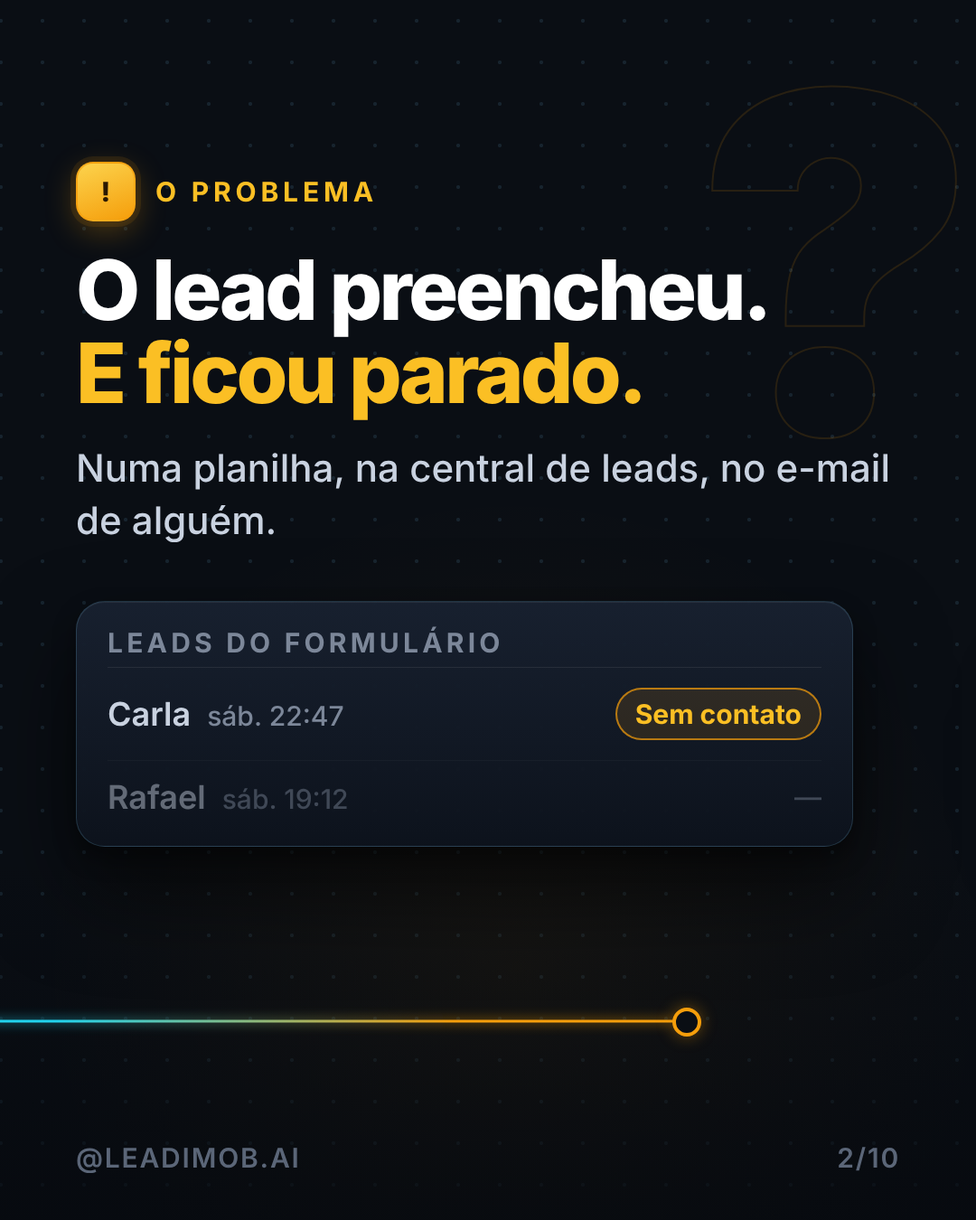
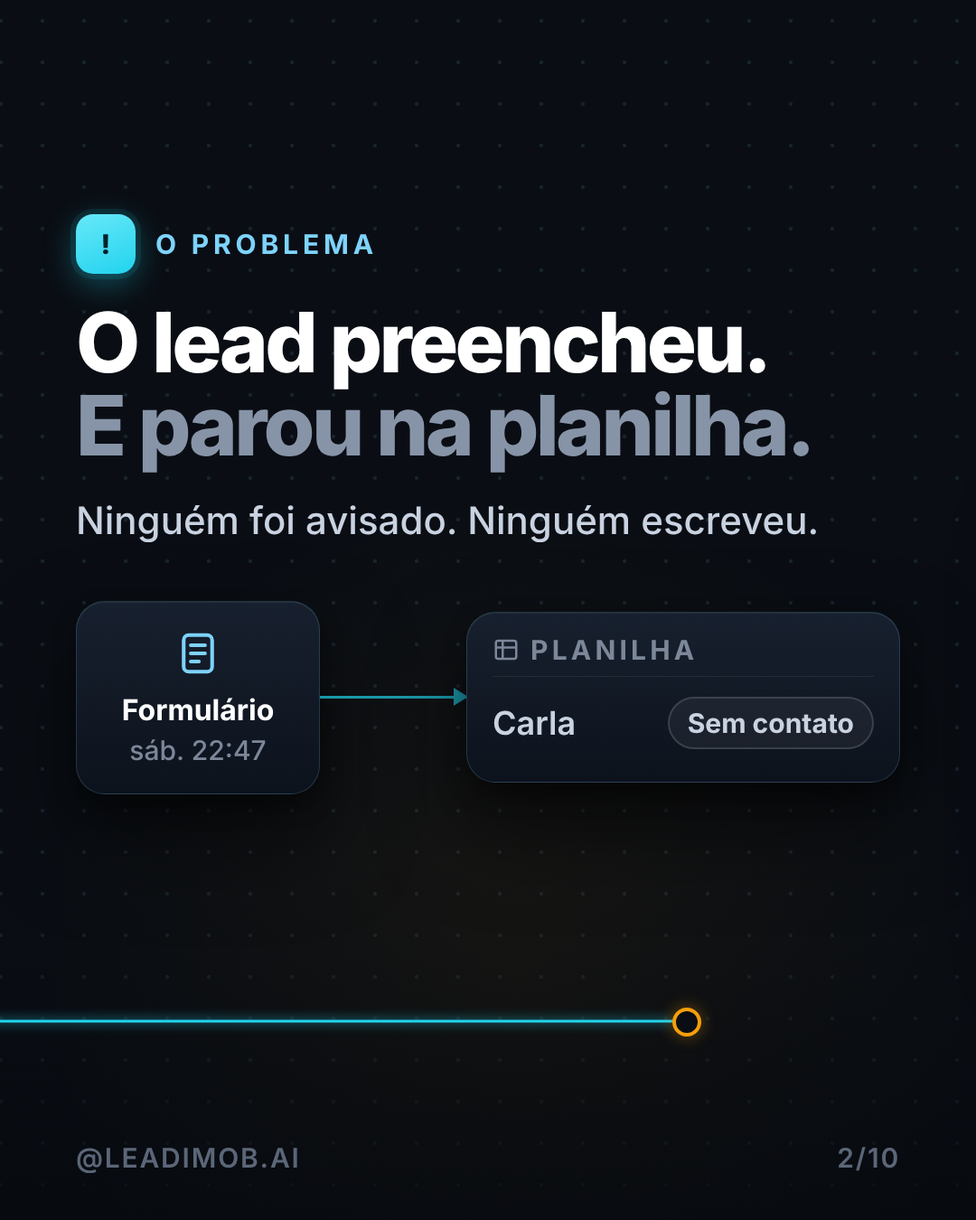
10/10: carrossel revisado após a crítica (rodada 2, sem aprovação)
Claude-Session: https://claude.ai/code/session_016a8cwUDTswJAyhXi9pdNNX

Changed region(s): [[0.0611, 0.1244, 0.9167, 0.6844], [0.3056, 0.8089, 0.7028, 0.84]]

diff --git a/instagram/2026-10-10/src/c1-index.html b/instagram/2026-10-10/src/c1-index.html
@@ -108,15 +108,15 @@ body{background:#0A0E14;width:10800px;height:1350px;overflow:hidden;font-family:
 .kv span{font:700 38px/1 IN;color:#fff}
 /* checklist resumo */
 .cl{width:900px;padding:22px 38px}
-.ci{display:flex;align-items:center;gap:24px;padding:20px 0;border-top:1px solid rgba(255,255,255,.08);font:600 36px/1.15 IN;color:#E2E8F0}
+.ci{display:flex;align-items:center;gap:24px;padding:17px 0;border-top:1px solid rgba(255,255,255,.08);font:600 36px/1.15 IN;color:#E2E8F0}
 .ci:first-child{border-top:0}
 .ci .n{width:50px;height:50px;border-radius:14px;border:3px solid rgba(125,211,252,.55);display:flex;align-items:center;justify-content:center;font:800 30px/1 IN;color:#7DD3FC;flex:none}
 /* chat final */
 .chat{width:900px;padding:0 0 30px}
-.chat .top{display:flex;align-items:center;gap:20px;padding:22px 30px;background:#1F2C34;margin-bottom:26px}
+.chat .top{display:flex;align-items:center;gap:20px;padding:16px 30px;background:#1F2C34;margin-bottom:26px}
 .chat .top b{display:block;font:700 36px/1.1 IN;color:#E9EDEF}
 .chat .top em{display:block;font:500 30px/1.2 IN;color:#8696A0;font-style:normal}
-.chat .bub{font-size:40px;margin:0 30px 18px}
+.chat .bub{font-size:38px;margin:0 30px 16px}
 </style></head><body><div id="strip">
 <div class="bg"></div>
 <div class="glow" style="left:-380px;top:-460px;width:1500px;height:1500px;background:radial-gradient(circle,rgba(37,99,235,.30),transparent 62%)"></div>
@@ -131,34 +131,52 @@ body{background:#0A0E14;width:10800px;height:1350px;overflow:hidden;font-family:
 <!-- 1 capa -->
 <div class="sl" style="left:0;justify-content:flex-start;padding-top:118px">
  <div style="display:flex;justify-content:space-between;align-items:center">
-  <div class="ttl" style="margin:0"><div class="num"><svg width="32" height="32" viewBox="0 0 24 24" fill="none" stroke="#06202A" stroke-width="2.6" stroke-linecap="round" stroke-linejoin="round"><path d="M4 6h16M7 12h10M10 18h4"/></svg></div><div class="kick">Método · 5 checagens</div></div>
+  <div class="ttl" style="margin:0"><div class="num"><svg width="32" height="32" viewBox="0 0 24 24" fill="none" stroke="#06202A" stroke-width="2.6" stroke-linecap="round" stroke-linejoin="round"><path d="M4 6h16M7 12h10M10 18h4"/></svg></div><div class="kick">Método</div></div>
   <span class="chip cy"><svg width="24" height="28" viewBox="0 0 20 24"><path d="M3 2h14v20l-7-5.500L3 22z" fill="#A5F3FC"/></svg>Salve este post</span>
  </div>
- <div class="h1" style="margin-top:64px;font-size:132px;line-height:.95">Do formulário<br>ao <span class="hl">WhatsApp.</span></div>
- <div class="p" style="margin-top:36px;font-size:46px;font-weight:600;color:#E2E8F0"><span class="hl">5 checagens</span> da sua captação.</div>
- <div class="card form" id="a-form" style="margin-top:56px">
+ <div class="h1" style="margin-top:64px;font-size:100px;line-height:1.0">O lead preencheu.<br>Alguém<br><span class="hl">respondeu?</span></div>
+ <div class="p" style="margin-top:34px;font-size:42px;font-weight:500;color:#E2E8F0">5 checagens para ver onde a sua captação de leads trava.</div>
+ <div class="card form" id="a-form" style="margin-top:52px">
   <div class="lab">Formulário do anúncio</div>
   <div class="fld"><b>Nome</b><span>Carla</span></div>
-  <div class="fld"><b>WhatsApp</b><span>(11) 9••••-••••</span></div>
   <div class="btn">Enviar <svg width="30" height="30" viewBox="0 0 24 24"><path d="M3 12 L21 3 L14 21 L11 13 Z" fill="#fff"/></svg></div>
  </div>
  <div class="foot"><span>@LEADIMOB.AI</span><span style="color:#7DD3FC">ARRASTE →</span></div></div>
 
-<!-- 2 problema -->
-<div class="sl" style="left:1080px"><div class="ghost" style="-webkit-text-stroke-color:rgba(245,158,11,.13)">?</div>
- <div class="ttl"><div class="num amb">!</div><div class="kick" style="color:#FBBF24">O problema</div></div>
- <div class="h2">O lead preencheu.<br><span class="am">E ficou parado.</span></div>
- <div class="p">Numa planilha, na central de leads, no e-mail de alguém.</div>
- <div class="card tbl art">
-  <div class="lab" style="margin-bottom:12px">Leads do formulário</div>
-  <div class="row"><span>Carla<small>sáb. 22:47</small></span><span class="chip amb" style="font-size:30px;padding:12px 20px">Sem contato</span></div>
-  <div class="row" style="opacity:.45"><span>Rafael<small>sáb. 19:12</small></span><span style="font:500 30px IN;color:#7C8799">—</span></div>
+<!-- 2 problema: caminho travado (formulário → planilha) -->
+<div class="sl" style="left:1080px">
+ <div class="ttl"><div class="num">!</div><div class="kick">O problema</div></div>
+ <div class="h2">O lead preencheu.<br><span style="color:#8794A8">E parou na planilha.</span></div>
+ <div class="p">Ninguém foi avisado. Ninguém escreveu.</div>
+ <div class="art" style="display:flex;align-items:center;width:912px">
+  <div class="card" style="width:270px;padding:30px 26px;text-align:center">
+   <svg width="54" height="54" viewBox="0 0 24 24" fill="none" stroke="#7DD3FC" stroke-width="1.8" stroke-linejoin="round" stroke-linecap="round"><rect x="5" y="3" width="14" height="18" rx="2.5"/><path d="M8.500 8h7M8.500 12h7M8.500 16h4"/></svg>
+   <div style="font:700 32px/1.1 IN;margin-top:14px">Formulário</div><div style="font:500 30px/1.2 IN;color:#7C8799;margin-top:8px">sáb. 22:47</div></div>
+  <div style="flex:1;height:3px;background:#22D3EE;opacity:.7;position:relative"><span style="position:absolute;right:-2px;top:-9px;border-left:16px solid #22D3EE;border-top:10px solid transparent;border-bottom:10px solid transparent"></span></div>
+  <div class="card" style="width:480px;padding:26px 28px 14px">
+   <div class="lab" style="margin-bottom:14px"><svg width="30" height="30" viewBox="0 0 24 24" fill="none" stroke="#7C8799" stroke-width="2"><rect x="3" y="4" width="18" height="16" rx="2"/><path d="M3 10h18M9 4v16"/></svg>Planilha</div>
+   <div class="row"><span>Carla</span><span class="chip nt" style="font-size:30px;padding:12px 20px">Sem contato</span></div>
+  </div>
  </div>
  <div class="foot"><span>@LEADIMOB.AI</span><span>2/10</span></div></div>
 <div class="stop" style="left:1840px"></div>
 
-<!-- 3 checagem 1 -->
-<div class="sl" style="left:2160px"><div class="ghost">01</div>
+<!-- 3 o teste -->
+<div class="sl" style="left:2160px">
+ <div class="ttl"><div class="num"><svg width="32" height="32" viewBox="0 0 24 24" fill="none" stroke="#06202A" stroke-width="2.6" stroke-linecap="round" stroke-linejoin="round"><path d="M4 6h16M7 12h10M10 18h4"/></svg></div><div class="kick">O teste</div></div>
+ <div class="h2">Preencha o seu próprio <span class="hl">formulário</span>.</div>
+ <div class="p">Depois, siga as 5 checagens.</div>
+ <div class="card cl art">
+  <div class="ci"><span class="n">1</span>Chega a alguém na hora?</div>
+  <div class="ci"><span class="n">2</span>WhatsApp citando o anúncio?</div>
+  <div class="ci"><span class="n">3</span>Resposta fora do horário?</div>
+  <div class="ci"><span class="n">4</span>Perguntas antes dos imóveis?</div>
+  <div class="ci"><span class="n">5</span>Dono e próximo passo?</div>
+ </div>
+ <div class="foot"><span>@LEADIMOB.AI</span><span>3/10</span></div></div>
+
+<!-- 4 checagem 1 -->
+<div class="sl" style="left:3240px;padding-top:216px"><div class="ghost">01</div>
  <div class="ttl"><div class="num">01</div><div class="kick">Checagem 1 · entrada</div></div>
  <div class="h2">O lead chega a <span class="hl">alguém</span> na hora?</div>
  <div class="p">Formulário enviado vira aviso, não arquivo para baixar depois.</div>
@@ -167,37 +185,36 @@ body{background:#0A0E14;width:10800px;height:1350px;overflow:hidden;font-family:
   <div style="flex:1"><div style="display:flex;justify-content:space-between;font:700 30px/1 IN;letter-spacing:.12em;color:#7DD3FC;text-transform:uppercase"><span>Novo lead</span><span style="color:#7C8799;letter-spacing:.04em;text-transform:none">agora</span></div>
   <div style="font:600 38px/1.2 IN;color:#fff;margin-top:14px">Carla · apto de 2 quartos</div></div>
  </div>
- <div class="foot"><span>@LEADIMOB.AI</span><span>3/10</span></div></div>
-<div class="gate" style="left:2700px"><i><svg width="26" height="26" viewBox="0 0 24 24"><path d="M5 12.500l4.500 4.500L19 7" stroke="#7DD3FC" stroke-width="3.2" fill="none" stroke-linecap="round" stroke-linejoin="round"/></svg></i><span>1</span></div>
-
-<!-- 4 checagem 2 -->
-<div class="sl" style="left:3240px"><div class="ghost">02</div>
- <div class="ttl"><div class="num">02</div><div class="kick">Checagem 2 · primeira mensagem</div></div>
- <div class="h2">Vai pelo <span class="hl">WhatsApp</span> e cita o anúncio?</div>
- <div class="p">Ele precisa reconhecer o imóvel que viu.</div>
- <div class="wa one art">
-  <div class="bub bout"><div class="quote"><div class="thumb"></div><div><b>Anúncio · Instagram</b><em>Apto 2 quartos · Centro</em></div></div>
-  <div class="msgt">Oi, Carla! Sobre o apto de 2 quartos: é para morar ou para investir?</div><div class="bt">22:47 <svg class="tk" viewBox="0 0 34 22"><path d="M2 12l6 6L20 4M14 18l12-14" stroke="#53BDEB" stroke-width="3" fill="none" stroke-linecap="round" stroke-linejoin="round"/></svg></div></div>
- </div>
  <div class="foot"><span>@LEADIMOB.AI</span><span>4/10</span></div></div>
-<div class="gate" style="left:3780px"><i><svg width="26" height="26" viewBox="0 0 24 24"><path d="M5 12.500l4.500 4.500L19 7" stroke="#7DD3FC" stroke-width="3.2" fill="none" stroke-linecap="round" stroke-linejoin="round"/></svg></i><span>2</span></div>
+<div class="gate" style="left:3780px"><i><svg width="26" height="26" viewBox="0 0 24 24"><path d="M5 12.500l4.500 4.500L19 7" stroke="#7DD3FC" stroke-width="3.2" fill="none" stroke-linecap="round" stroke-linejoin="round"/></svg></i><span>1</span></div>
 
-<!-- 5 checagem 3 -->
-<div class="sl" style="left:4320px"><div class="ghost">03</div>
+<!-- 5 checagem 2 -->
+<div class="sl" style="left:4320px"><div class="ghost">02</div>
+ <div class="ttl"><div class="num">02</div><div class="kick">Checagem 2 · primeira mensagem</div></div>
+ <div class="h2" style="font-size:80px">A primeira mensagem vai pelo <span class="hl">WhatsApp</span> e cita o anúncio?</div>
+ <div class="p">O cliente precisa reconhecer o imóvel.</div>
+ <div class="wa one art">
+  <div class="bub bout" style="padding:22px 28px 18px"><div>Oi, Carla! Sobre o apto de 2 quartos do anúncio: é para morar ou para investir?</div><div class="bt"><svg class="tk" viewBox="0 0 34 22"><path d="M2 12l6 6L20 4M14 18l12-14" stroke="#53BDEB" stroke-width="3" fill="none" stroke-linecap="round" stroke-linejoin="round"/></svg></div></div>
+ </div>
+ <div class="foot"><span>@LEADIMOB.AI</span><span>5/10</span></div></div>
+<div class="gate" style="left:4860px"><i><svg width="26" height="26" viewBox="0 0 24 24"><path d="M5 12.500l4.500 4.500L19 7" stroke="#7DD3FC" stroke-width="3.2" fill="none" stroke-linecap="round" stroke-linejoin="round"/></svg></i><span>2</span></div>
+
+<!-- 6 checagem 3 -->
+<div class="sl" style="left:5400px"><div class="ghost">03</div>
  <div class="ttl"><div class="num">03</div><div class="kick">Checagem 3 · fora do horário</div></div>
  <div class="h2">Alguém responde às <span class="hl">22h</span>?</div>
  <div class="p">O formulário chega quando o cliente tem tempo: à noite, no fim de semana.</div>
  <div class="card day24 art">
   <div class="lab">Quando o formulário chegou</div>
-  <div class="bar"><div class="biz" style="left:37.5%;width:37.5%"><span style="position:absolute;left:0;right:0;bottom:44px;text-align:center;font:600 30px/1 IN;color:#7DD3FC;white-space:nowrap">horário comercial</span></div>
-   <div class="pin" style="left:94.9%;transform:translateX(-82%)"><span class="chip cy">Carla · 22:47</span><i style="margin-left:64%"></i><u style="margin-left:64%"></u></div></div>
+  <div class="bar" style="height:56px;border-radius:16px;margin-top:110px"><div class="biz" style="left:37.5%;width:37.5%;border-radius:16px;display:flex;align-items:center;justify-content:center;font:600 30px/1 IN;color:#E0F2FE;white-space:nowrap">horário comercial</div>
+   <div class="pin" style="left:94.9%;top:-90px;transform:translateX(-82%)"><span class="chip cy">Carla · 22:47</span><i style="margin-left:64%"></i><u style="margin-left:64%"></u></div></div>
   <div class="tks"><span style="left:2%">0h</span><span style="left:37.5%">9h</span><span style="left:75%">18h</span><span style="left:97%">24h</span></div>
  </div>
- <div class="foot"><span>@LEADIMOB.AI</span><span>5/10</span></div></div>
-<div class="gate" style="left:4860px"><i><svg width="26" height="26" viewBox="0 0 24 24"><path d="M5 12.500l4.500 4.500L19 7" stroke="#7DD3FC" stroke-width="3.2" fill="none" stroke-linecap="round" stroke-linejoin="round"/></svg></i><span>3</span></div>
+ <div class="foot"><span>@LEADIMOB.AI</span><span>6/10</span></div></div>
+<div class="gate" style="left:5940px"><i><svg width="26" height="26" viewBox="0 0 24 24"><path d="M5 12.500l4.500 4.500L19 7" stroke="#7DD3FC" stroke-width="3.2" fill="none" stroke-linecap="round" stroke-linejoin="round"/></svg></i><span>3</span></div>
 
-<!-- 6 checagem 4 -->
-<div class="sl" style="left:5400px"><div class="ghost">04</div>
+<!-- 7 checagem 4 -->
+<div class="sl" style="left:6480px"><div class="ghost">04</div>
  <div class="ttl"><div class="num">04</div><div class="kick">Checagem 4 · qualificação</div></div>
  <div class="h2">Pergunta <span class="hl">antes</span> de mandar imóvel?</div>
  <div class="p">As respostas dizem o que vale enviar.</div>
@@ -207,57 +224,43 @@ body{background:#0A0E14;width:10800px;height:1350px;overflow:hidden;font-family:
   <div class="q nt"><svg width="34" height="34" viewBox="0 0 24 24"><path d="M5 12.500l4.500 4.500L19 7" stroke="#22D3EE" stroke-width="3" fill="none" stroke-linecap="round" stroke-linejoin="round"/></svg>Até quanto?</div>
   <div class="q nt"><svg width="34" height="34" viewBox="0 0 24 24"><path d="M5 12.500l4.500 4.500L19 7" stroke="#22D3EE" stroke-width="3" fill="none" stroke-linecap="round" stroke-linejoin="round"/></svg>Para quando?</div>
  </div>
- <div class="foot"><span>@LEADIMOB.AI</span><span>6/10</span></div></div>
-<div class="gate" style="left:5940px"><i><svg width="26" height="26" viewBox="0 0 24 24"><path d="M5 12.500l4.500 4.500L19 7" stroke="#7DD3FC" stroke-width="3.2" fill="none" stroke-linecap="round" stroke-linejoin="round"/></svg></i><span>4</span></div>
+ <div class="foot"><span>@LEADIMOB.AI</span><span>7/10</span></div></div>
+<div class="gate" style="left:7020px"><i><svg width="26" height="26" viewBox="0 0 24 24"><path d="M5 12.500l4.500 4.500L19 7" stroke="#7DD3FC" stroke-width="3.2" fill="none" stroke-linecap="round" stroke-linejoin="round"/></svg></i><span>4</span></div>
 
-<!-- 7 checagem 5 -->
-<div class="sl" style="left:6480px"><div class="ghost">05</div>
- <div class="ttl"><div class="num">05</div><div class="kick">Checagem 5 · funil</div></div>
- <div class="h2">Cada lead tem <span style="color:#6EE7B7">dono e próximo passo</span>?</div>
+<!-- 8 checagem 5 -->
+<div class="sl" style="left:7560px"><div class="ghost">05</div>
+ <div class="ttl"><div class="num">05</div><div class="kick">Dono e próximo passo</div></div>
+ <div class="h2">Cada lead tem <span class="hl">dono e próximo passo</span>?</div>
  <div class="p">Sem isso, ele volta para a planilha.</div>
  <div class="card crm art">
   <div class="hd"><div class="av">C</div><div><div style="font:700 38px/1.1 IN">Carla</div><div style="font:500 30px/1.3 IN;color:#7C8799">Apto 2 quartos · Centro</div></div></div>
   <div class="kv"><b>Dono</b><span>Ana, corretora</span></div>
-  <div class="kv"><b>Próximo passo</b><span class="chip gr" style="font-size:32px">Visita sáb. 10h</span></div>
- </div>
- <div class="foot"><span>@LEADIMOB.AI</span><span>7/10</span></div></div>
-<div class="gate" style="left:7020px"><i><svg width="26" height="26" viewBox="0 0 24 24"><path d="M5 12.500l4.500 4.500L19 7" stroke="#7DD3FC" stroke-width="3.2" fill="none" stroke-linecap="round" stroke-linejoin="round"/></svg></i><span>5</span></div>
-
-<!-- 8 resumo -->
-<div class="sl" style="left:7560px">
- <div class="ttl"><div class="num"><svg width="32" height="32" viewBox="0 0 24 24" fill="none" stroke="#06202A" stroke-width="2.6" stroke-linecap="round" stroke-linejoin="round"><path d="M4 6h16M7 12h10M10 18h4"/></svg></div><div class="kick">Resumo · faça o teste</div></div>
- <div class="h2">Preencha o seu próprio <span class="hl">formulário</span>.</div>
- <div class="p">E veja em qual checagem a resposta trava.</div>
- <div class="card cl art">
-  <div class="ci"><span class="n">1</span>Chega a alguém na hora</div>
-  <div class="ci"><span class="n">2</span>WhatsApp citando o anúncio</div>
-  <div class="ci"><span class="n">3</span>Resposta fora do horário</div>
-  <div class="ci"><span class="n">4</span>Perguntas antes dos imóveis</div>
-  <div class="ci"><span class="n">5</span>Dono e próximo passo</div>
+  <div class="kv"><b>Próximo passo</b><span class="chip cy" style="font-size:32px">Visita seg. 10h</span></div>
  </div>
  <div class="foot"><span>@LEADIMOB.AI</span><span>8/10</span></div></div>
+<div class="gate" style="left:8100px"><i><svg width="26" height="26" viewBox="0 0 24 24"><path d="M5 12.500l4.500 4.500L19 7" stroke="#7DD3FC" stroke-width="3.2" fill="none" stroke-linecap="round" stroke-linejoin="round"/></svg></i><span>5</span></div>
 
 <!-- 9 produto -->
 <div class="sl" style="left:8640px">
  <div class="ttl"><div class="num"><svg width="34" height="34" viewBox="0 0 24 24"><path d="M12 3c5 0 9 3.600 9 8.200S17 19.500 12 19.500c-1 0-2-.15-2.900-.42L4.500 21l1.200-3.900C4 15.600 3 13.500 3 11.200 3 6.600 7 3 12 3z" fill="#06202A"/></svg></div><div class="kick">Onde a Leadimob entra</div></div>
  <div class="h2">Formulário enviado. <span style="color:#6EE7B7">Conversa iniciada.</span></div>
- <div class="p">A Leadimob começa no seu WhatsApp na hora, 24h, já citando o anúncio.</div>
- <div class="wa chat art" id="a-chat">
+ <div class="p">A Leadimob puxa a conversa no seu WhatsApp na hora, 24h, citando o anúncio.</div>
+ <div class="wa chat art" id="a-chat" style="margin-top:44px">
   <div class="top"><div class="av" style="width:64px;height:64px;font-size:30px">C</div><div><b>Carla</b><em>online</em></div></div>
-  <div class="bub bout">É para morar ou para investir?<div class="bt">22:47 <svg class="tk" viewBox="0 0 34 22"><path d="M2 12l6 6L20 4M14 18l12-14" stroke="#53BDEB" stroke-width="3" fill="none" stroke-linecap="round" stroke-linejoin="round"/></svg></div></div>
+  <div class="bub bout">Oi, Carla! Sobre o apto de 2 quartos: é para morar ou para investir?<div class="bt">22:47 <svg class="tk" viewBox="0 0 34 22"><path d="M2 12l6 6L20 4M14 18l12-14" stroke="#53BDEB" stroke-width="3" fill="none" stroke-linecap="round" stroke-linejoin="round"/></svg></div></div>
   <div class="bub bin">Para morar. Pode mandar as fotos?<div class="bt">22:48</div></div>
  </div>
  <div class="foot"><span>@LEADIMOB.AI</span><span>9/10</span></div></div>
 
 <!-- 10 CTA -->
-<div class="sl" style="left:9720px">
+<div class="sl" style="left:9720px;padding-bottom:170px">
  <div class="ttl"><div class="num"><svg width="32" height="32" viewBox="0 0 24 24"><path d="M5 12.500l4.500 4.500L19 7" stroke="#06202A" stroke-width="3" fill="none" stroke-linecap="round" stroke-linejoin="round"/></svg></div><div class="kick">Sua vez</div></div>
- <div class="h2">Onde a sua captação <span class="hl">trava</span>?</div>
+ <div class="h2">Onde a sua captação de leads <span class="hl">trava</span>?</div>
  <div style="margin-top:56px;height:132px;border-radius:66px;background:#141B28;border:2px solid rgba(125,211,252,.45);box-shadow:0 0 0 8px rgba(34,211,238,.06),0 30px 70px rgba(0,0,0,.55);display:flex;align-items:center;padding:0 22px 0 40px;gap:16px;font:600 44px IN">
-  <span style="color:#7C8799">Comente</span><span style="font-weight:900;letter-spacing:.02em">CAPTAÇÃO</span><span style="width:4px;height:52px;background:#22D3EE;border-radius:2px"></span>
+  <span style="color:#7C8799">Comente</span><span style="font-weight:900;letter-spacing:.02em">CHECAGEM</span><span style="width:4px;height:52px;background:#22D3EE;border-radius:2px"></span>
   <span style="margin-left:auto;width:92px;height:92px;border-radius:50%;background:#2563EB;display:flex;align-items:center;justify-content:center;box-shadow:0 10px 30px rgba(37,99,235,.55)"><svg width="42" height="42" viewBox="0 0 24 24"><path d="M3 12 L21 3 L14 21 L11 13 Z" fill="#fff"/></svg></span>
  </div>
- <div class="p" style="margin-top:34px">e conte qual checagem falha hoje na sua imobiliária.</div>
+ <div class="p" style="margin-top:34px">e conte qual delas falha hoje na sua imobiliária.</div>
  <div style="margin-top:56px;display:flex;align-items:center;gap:22px">
   <div style="width:300px;height:96px;border-radius:22px;background:#F3F7FB;display:flex;align-items:center;justify-content:center;box-shadow:0 20px 44px rgba(0,0,0,.5)"><img src="logo.png" style="width:240px"></div>
   <div style="font:700 34px/1 IN;color:#7DD3FC">@leadimob.ai</div>
@@ -266,8 +269,8 @@ body{background:#0A0E14;width:10800px;height:1350px;overflow:hidden;font-family:
  <div class="foot"><span>@LEADIMOB.AI</span><span>10/10</span></div></div>
 </div>
 <script>
-// O fio: sai do botão "Enviar" do formulário (capa), desce até a linha, para em âmbar no slide 2,
-// reconecta no slide 3 e passa pelas 5 checagens; no slide 9 sobe e entra na conversa do WhatsApp.
+// O fio: sai do formulário (capa), desce até a linha e trava no nó âmbar do slide 2 (planilha);
+// reconecta no slide 3 (o teste), passa pelas 5 checagens (slides 4–8) e no slide 9 sobe, verde, e entra na conversa.
 function fio(){
  const S=document.getElementById('fio'),st=document.getElementById('strip').getBoundingClientRect();
  const r=id=>{const b=document.getElementById(id).getBoundingClientRect();return{x:b.left-st.left,y:b.top-st.top,w:b.width,h:b.height}};
@@ -275,8 +278,8 @@ function fio(){
  const fx=f.x+f.w/2,fy=f.y+f.h, cx=c.x+c.w/2, cy=c.y+c.h;
  const ns='http://www.w3.org/2000/svg';
  S.innerHTML=`<defs>
- <linearGradient id="g1" gradientUnits="userSpaceOnUse" x1="0" x2="1840" y1="0" y2="0"><stop offset="0" stop-color="#22D3EE"/><stop offset=".62" stop-color="#22D3EE"/><stop offset=".86" stop-color="#F59E0B"/><stop offset="1" stop-color="#F59E0B"/></linearGradient>
- <linearGradient id="g2" gradientUnits="userSpaceOnUse" x1="2160" x2="8640" y1="0" y2="0"><stop offset="0" stop-color="#22D3EE" stop-opacity="0"/><stop offset=".06" stop-color="#22D3EE" stop-opacity=".9"/><stop offset=".78" stop-color="#22D3EE" stop-opacity=".9"/><stop offset="1" stop-color="#34D399" stop-opacity=".9"/></linearGradient>
+ <linearGradient id="g1" gradientUnits="userSpaceOnUse" x1="0" x2="1840" y1="0" y2="0"><stop offset="0" stop-color="#22D3EE"/><stop offset="1" stop-color="#22D3EE"/></linearGradient>
+ <linearGradient id="g2" gradientUnits="userSpaceOnUse" x1="2160" x2="9200" y1="0" y2="0"><stop offset="0" stop-color="#22D3EE" stop-opacity="0"/><stop offset=".06" stop-color="#22D3EE" stop-opacity=".9"/><stop offset=".92" stop-color="#22D3EE" stop-opacity=".9"/><stop offset="1" stop-color="#34D399" stop-opacity=".9"/></linearGradient>
  <filter id="gl" x="-5%" y="-50%" width="110%" height="200%"><feGaussianBlur stdDeviation="6"/></filter></defs>`;
  const d1=`M${fx},${fy} V${Y-R} Q${fx},${Y} ${fx+R},${Y} H1824`;
  const d2=`M2160,${Y} H${cx-R} Q${cx},${Y} ${cx},${Y-R} V${cy}`;

diff --git a/instagram/2026-10-10/carrossel/carrossel-editor.html b/instagram/2026-10-10/carrossel/carrossel-editor.html
@@ -312,7 +312,7 @@ input[type=range]{width:100%;accent-color:#6C5CE7;height:18px;cursor:pointer;}
     </div>
   </div>
 </div>
-<script id="deck-data" type="application/json">{"kit": "tech", "formato": "4:5", "paleta": {"bg": "#0A0E14", "fg": "#FFFFFF", "muted": "#8A93A3", "accent": "#22D3EE", "surface": "#141B28", "cream": "#F3F7FB"}, "handle": "@leadimob.ai", "slides": [{"tipo": "capa", "kicker": "MÉTODO · SALVE ESTE POST", "titulo": "Do formulário ao WhatsApp.", "sub": "5 checagens da sua captação."}, {"tipo": "conteudo", "kicker": "O PROBLEMA", "titulo": "O lead preencheu. E ficou parado.", "sub": "Numa planilha, na central de leads, no e-mail de alguém."}, {"tipo": "conteudo", "kicker": "CHECAGEM 1 · ENTRADA", "titulo": "O lead chega a alguém na hora?", "sub": "Formulário enviado vira aviso, não arquivo para baixar depois."}, {"tipo": "conteudo", "kicker": "CHECAGEM 2 · PRIMEIRA MENSAGEM", "titulo": "Vai pelo WhatsApp e cita o anúncio?", "sub": "Ele precisa reconhecer o imóvel que viu."}, {"tipo": "conteudo", "kicker": "CHECAGEM 3 · FORA DO HORÁRIO", "titulo": "Alguém responde às 22h?", "sub": "O formulário chega quando o cliente tem tempo: à noite, no fim de semana."}, {"tipo": "conteudo", "kicker": "CHECAGEM 4 · QUALIFICAÇÃO", "titulo": "Pergunta antes de mandar imóvel?", "sub": "As respostas dizem o que vale enviar."}, {"tipo": "conteudo", "kicker": "CHECAGEM 5 · FUNIL", "titulo": "Cada lead tem dono e próximo passo?", "sub": "Sem isso, ele volta para a planilha."}, {"tipo": "conteudo", "kicker": "RESUMO · FAÇA O TESTE", "titulo": "Preencha o seu próprio formulário.", "sub": "E veja em qual checagem a resposta trava."}, {"tipo": "conteudo", "kicker": "ONDE A LEADIMOB ENTRA", "titulo": "Formulário enviado. Conversa iniciada.", "sub": "A Leadimob começa no seu WhatsApp na hora, 24h, já citando o anúncio."}, {"tipo": "cta", "kicker": "SUA VEZ", "titulo": "Onde a sua captação trava?", "sub": "Comente CAPTAÇÃO e conte qual checagem falha hoje na sua imobiliária."}]}</script>
+<script id="deck-data" type="application/json">{"kit": "tech", "formato": "4:5", "paleta": {"bg": "#0A0E14", "fg": "#FFFFFF", "muted": "#8A93A3", "accent": "#22D3EE", "surface": "#141B28", "cream": "#F3F7FB"}, "handle": "@leadimob.ai", "slides": [{"tipo": "capa", "kicker": "MÉTODO · SALVE ESTE POST", "titulo": "O lead preencheu. Alguém respondeu?", "sub": "5 checagens para ver onde a sua captação de leads trava."}, {"tipo": "conteudo", "kicker": "O PROBLEMA", "titulo": "O lead preencheu. E parou na planilha.", "sub": "Ninguém foi avisado. Ninguém escreveu."}, {"tipo": "conteudo", "kicker": "O TESTE", "titulo": "Preencha o seu próprio formulário.", "sub": "Depois, siga as 5 checagens."}, {"tipo": "conteudo", "kicker": "CHECAGEM 1 · ENTRADA", "titulo": "O lead chega a alguém na hora?", "sub": "Formulário enviado vira aviso, não arquivo para baixar depois."}, {"tipo": "conteudo", "kicker": "CHECAGEM 2 · PRIMEIRA MENSAGEM", "titulo": "A primeira mensagem vai pelo WhatsApp e cita o anúncio?", "sub": "O cliente precisa reconhecer o imóvel."}, {"tipo": "conteudo", "kicker": "CHECAGEM 3 · FORA DO HORÁRIO", "titulo": "Alguém responde às 22h?", "sub": "O formulário chega quando o cliente tem tempo: à noite, no fim de semana."}, {"tipo": "conteudo", "kicker": "CHECAGEM 4 · QUALIFICAÇÃO", "titulo": "Pergunta antes de mandar imóvel?", "sub": "As respostas dizem o que vale enviar."}, {"tipo": "conteudo", "kicker": "DONO E PRÓXIMO PASSO", "titulo": "Cada lead tem dono e próximo passo?", "sub": "Sem isso, ele volta para a planilha."}, {"tipo": "conteudo", "kicker": "ONDE A LEADIMOB ENTRA", "titulo": "Formulário enviado. Conversa iniciada.", "sub": "A Leadimob puxa a conversa no seu WhatsApp na hora, 24h, citando o anúncio."}, {"tipo": "cta", "kicker": "SUA VEZ", "titulo": "Onde a sua captação de leads trava?", "sub": "Comente CHECAGEM e conte qual delas falha hoje na sua imobiliária."}]}</script>
 <script>
 const KITS = {
   "editorial":     {disp:"Anton", body:"Inter", mono:"JetBrains Mono", serif:"Instrument Serif",
